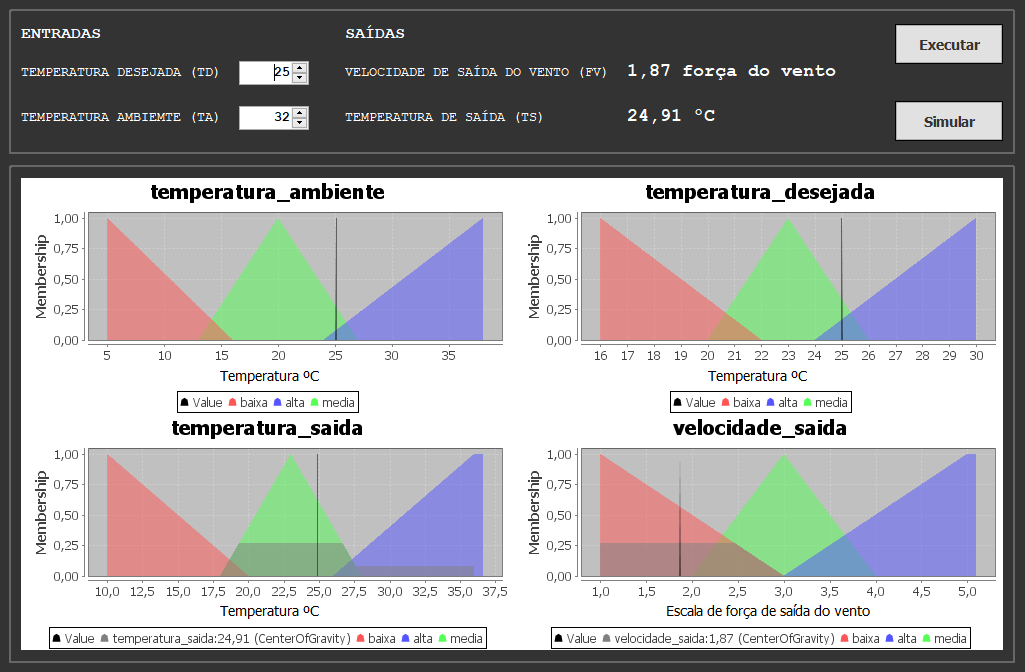
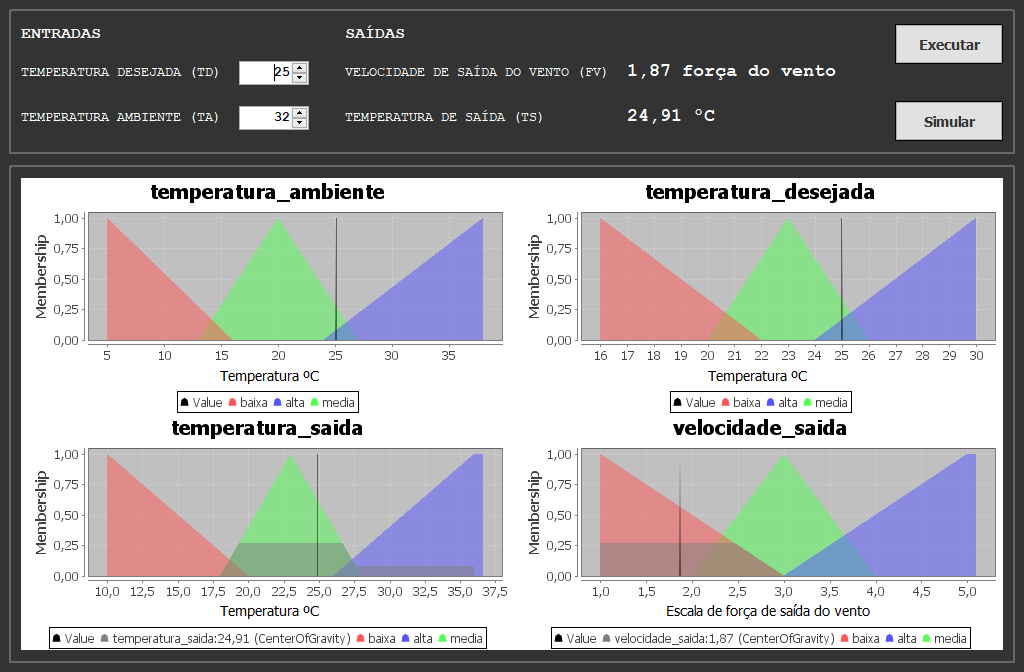
Correções
Pequenas correções na view do sistema
Correção da imagem "sistema.PNG"

diff --git a/src/Main.java b/src/Main.java
@@ -371,7 +371,7 @@ public class Main extends javax.swing.JFrame{
 
         jLabel4.setFont(new java.awt.Font("Courier New", 0, 14)); // NOI18N
         jLabel4.setForeground(new java.awt.Color(255, 255, 255));
-        jLabel4.setText("TEMPERATURA AMBIEMTE (TA)");
+        jLabel4.setText("TEMPERATURA AMBIENTE (TA)");
 
         temp_a_val.setFont(new java.awt.Font("Courier New", 1, 14)); // NOI18N
         temp_a_val.setModel(new javax.swing.SpinnerNumberModel(Float.valueOf(32.0f), Float.valueOf(5.0f), Float.valueOf(38.0f), Float.valueOf(0.1f)));
